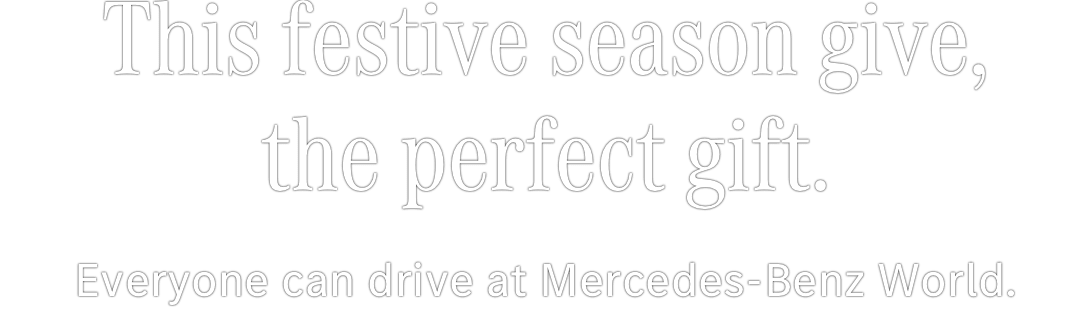
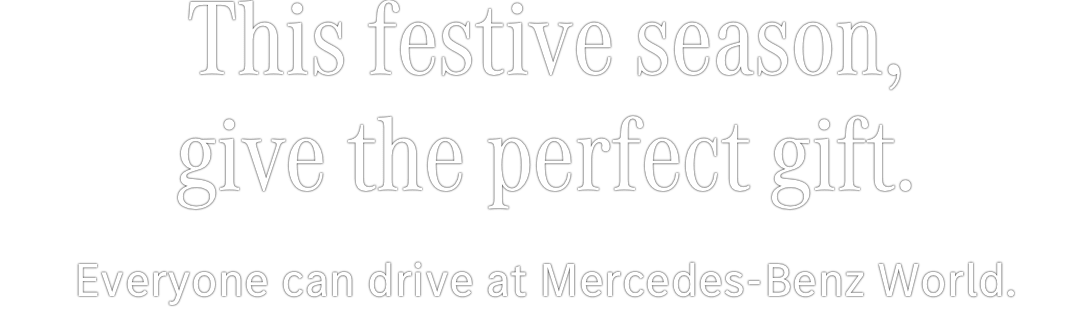
amend

diff --git a/complete/mbw/Seasonal Email 2/index.html b/complete/mbw/Seasonal Email 2/index.html
@@ -471,12 +471,12 @@
                         <td rowspan="4" class="medium-hide" style="width: 10.434782609%">&nbsp;</td>
                         <td class="padding" colspan="3" align="center" style="padding-top: 40px">
                           <div class="mobile-hide">
-                            <h1 style="Margin: 0 0 20px; line-height: 1; color:#ffffff"><img src="images/h1-d@2x.png" alt="This festive season give the perfect gift." style="display: block; width: 546px; max-width: 100%;" class="full-width" width="546" border="0"></h1>
+                            <h1 style="Margin: 0 0 20px; line-height: 1; color:#ffffff"><img src="images/h1-d@2x.png" alt="This festive season, give the perfect gift." style="display: block; width: 546px; max-width: 100%;" class="full-width" width="546" border="0"></h1>
                           </div>
                           <!--[if !mso]><!-->
                           <div class="mobile-show" style="display:none; max-height:0px; height:0; width:0; font-size:0; line-height:0; overflow:hidden; mso-hide:all;">
                             <h1 style="Margin: 0 0 20px; line-height: 1; color: #ffffff">
-                              <img src="images/h1-m@2x.png" alt="This festive season give the perfect gift." style="width:100%; display: block;" class="fluid" width="100%" border="0">
+                              <img src="images/h1-m@2x.png" alt="This festive season, give the perfect gift." style="width:100%; display: block;" class="fluid" width="100%" border="0">
                             </h1>
                           </div>
                           <!--<![endif]-->
